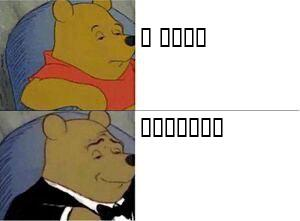
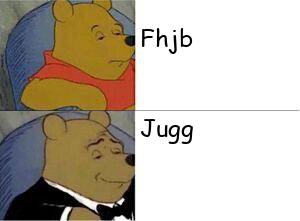
template

Changed region(s): [[0.45, 0.5158, 0.75, 0.6516], [0.45, 0.1086, 0.69, 0.2443]]

diff --git a/main.py b/main.py
@@ -42,7 +42,7 @@ async def start(update, context):
                                     "номер шаблона\n"
                                     "текст1\n"
                                     "текст2")
-    photo_files = [open('images/mem1.jpg', 'rb'), open('images/mem2.jpg', 'rb')]
+    photo_files = [open('images/mem1_text.jpg', 'rb'), open('images/mem2_text.jpg', 'rb')]
 
     media = [telegram.InputMediaPhoto(photo_file) for photo_file in photo_files]
 
